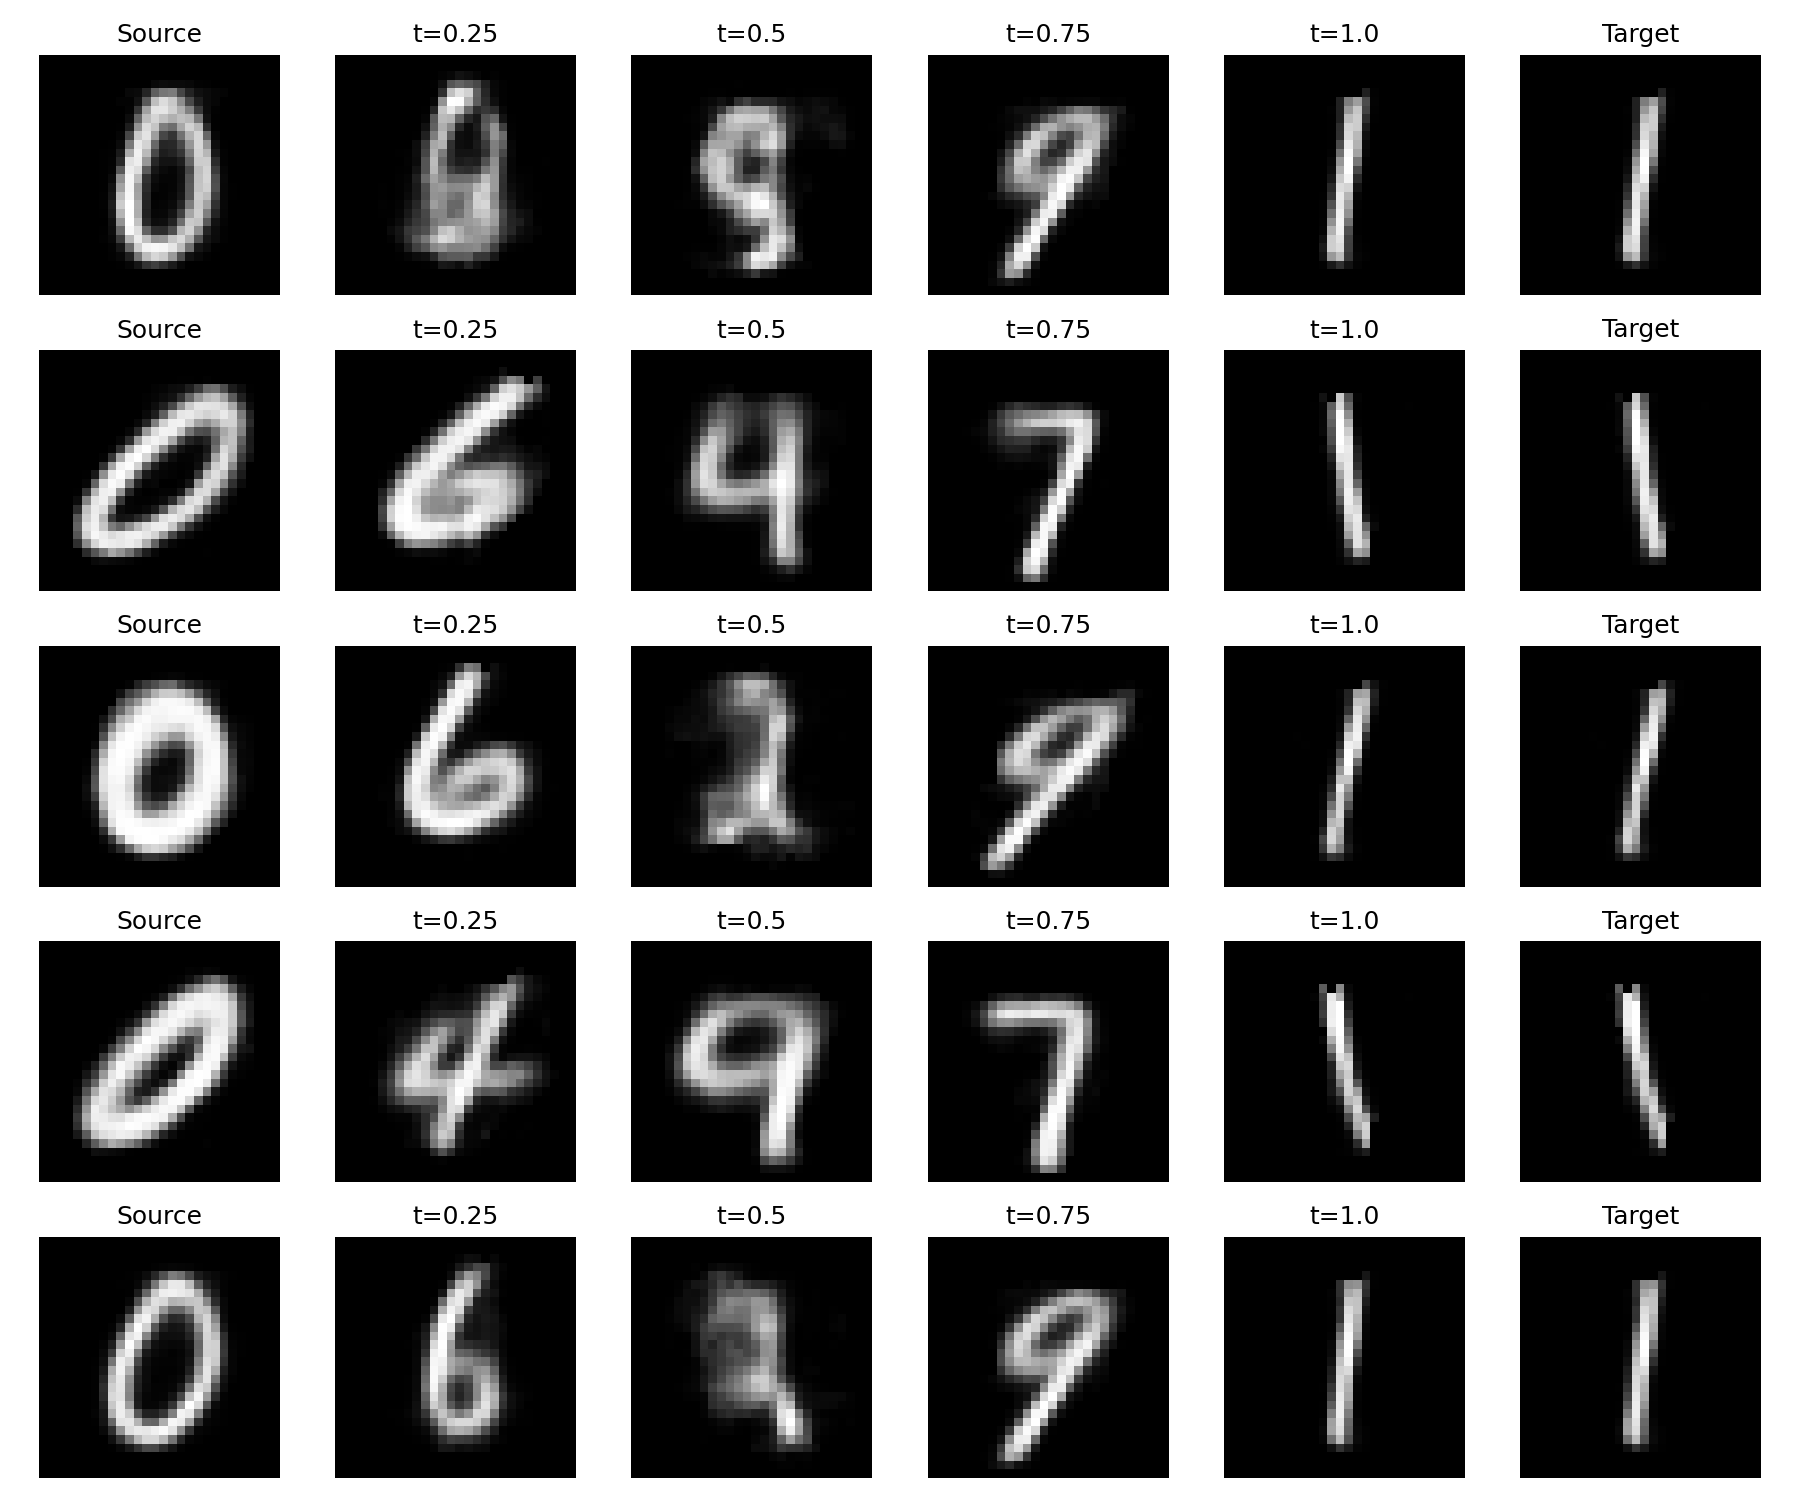
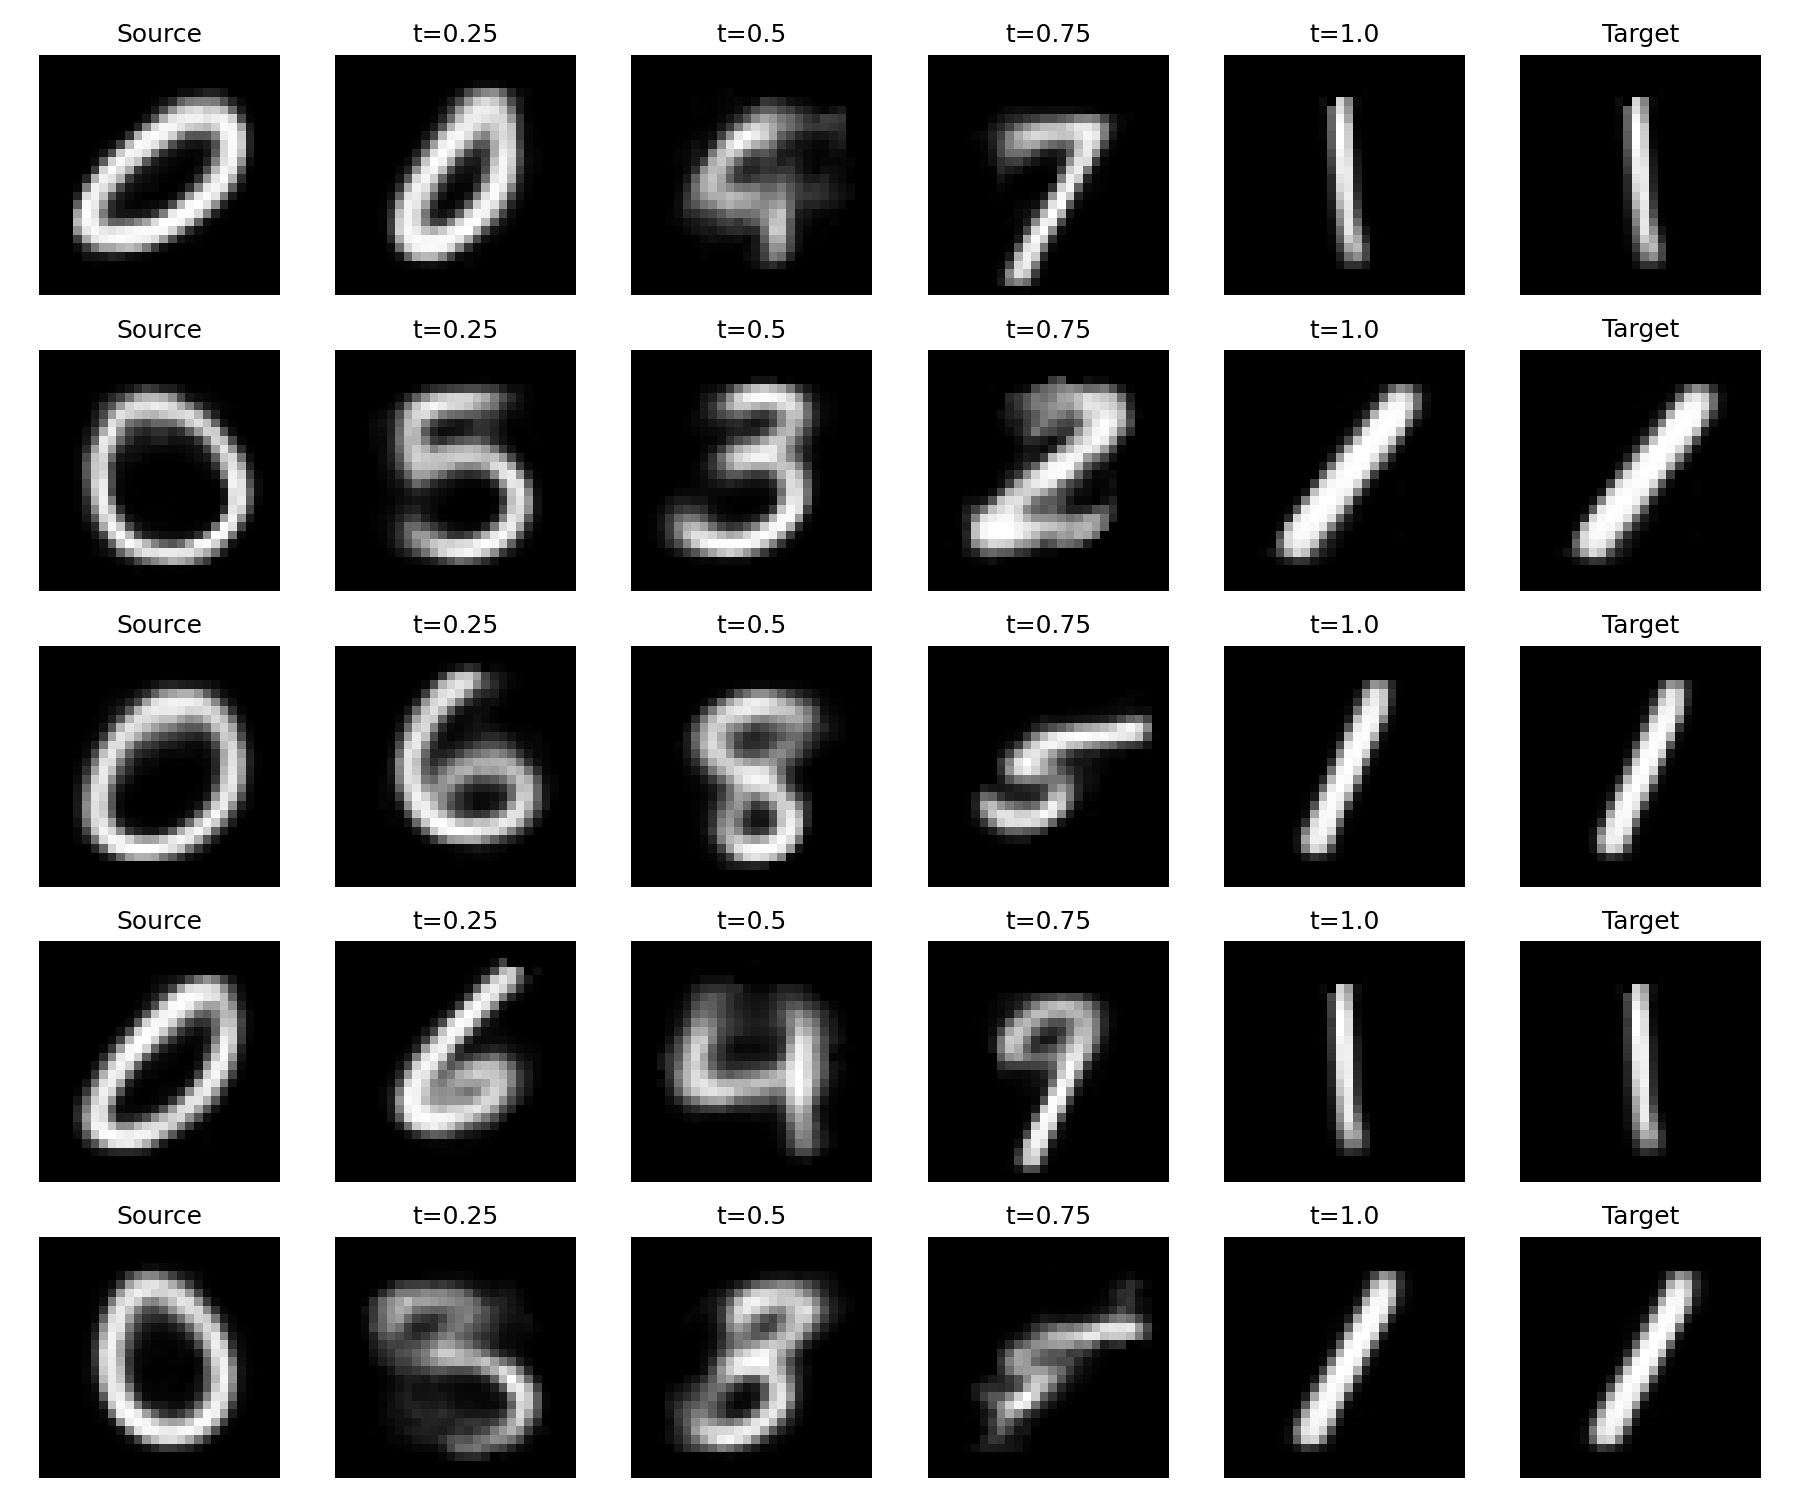
init

diff --git a/src/main_project/sinkhorn_implementation.py b/src/main_project/sinkhorn_implementation.py
@@ -30,8 +30,13 @@ for x, y in train_loader:
     target_data.extend(x[target_mask])
 
 # Stack and flatten to [n, 784] as JAX arrays
-start_arr  = jnp.array(np.stack([np.array(img).flatten() for img in start_data]))
-target_arr = jnp.array(np.stack([np.array(img).flatten() for img in target_data]))
+start_arr = jnp.asarray(
+    torch.stack(start_data).reshape(len(start_data), -1).numpy()
+)
+
+target_arr = jnp.asarray(
+    torch.stack(target_data).reshape(len(target_data), -1).numpy()
+)
 
 
 def recon(x):
